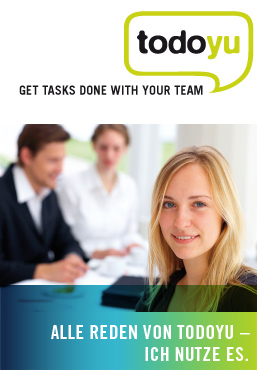
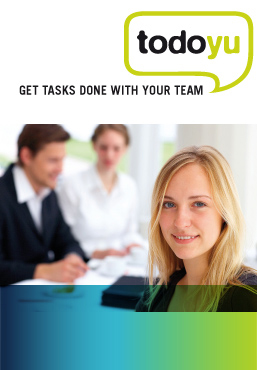
* Task 1361.158 * replaced slogan on image with text

Changed region(s): [[0.1868, 0.8622, 0.965, 0.9811]]

diff --git a/assets/css/ext.css b/assets/css/ext.css
@@ -134,11 +134,25 @@ form.formLogin fieldset.buttons button span.rgt {
 	padding:15px;
 }
 
-
-
 /* ----------------------------
  	Loginpage tabs
    ---------------------------- */
 #navi-main-list li.itemBugs {
 	float:right;
+}
+
+/* ----------------------------
+ 	Todoyu Panelwidget Slogan
+   ---------------------------- */
+
+#todoyu-loginpage p.slogan {
+	position: absolute;
+	bottom: 10px;
+	right: 10px;
+	padding: 10px;
+	text-transform: uppercase;
+	color: white;
+	font-size: 13px;
+	font-weight: bold;
+	text-align: right;
 }
